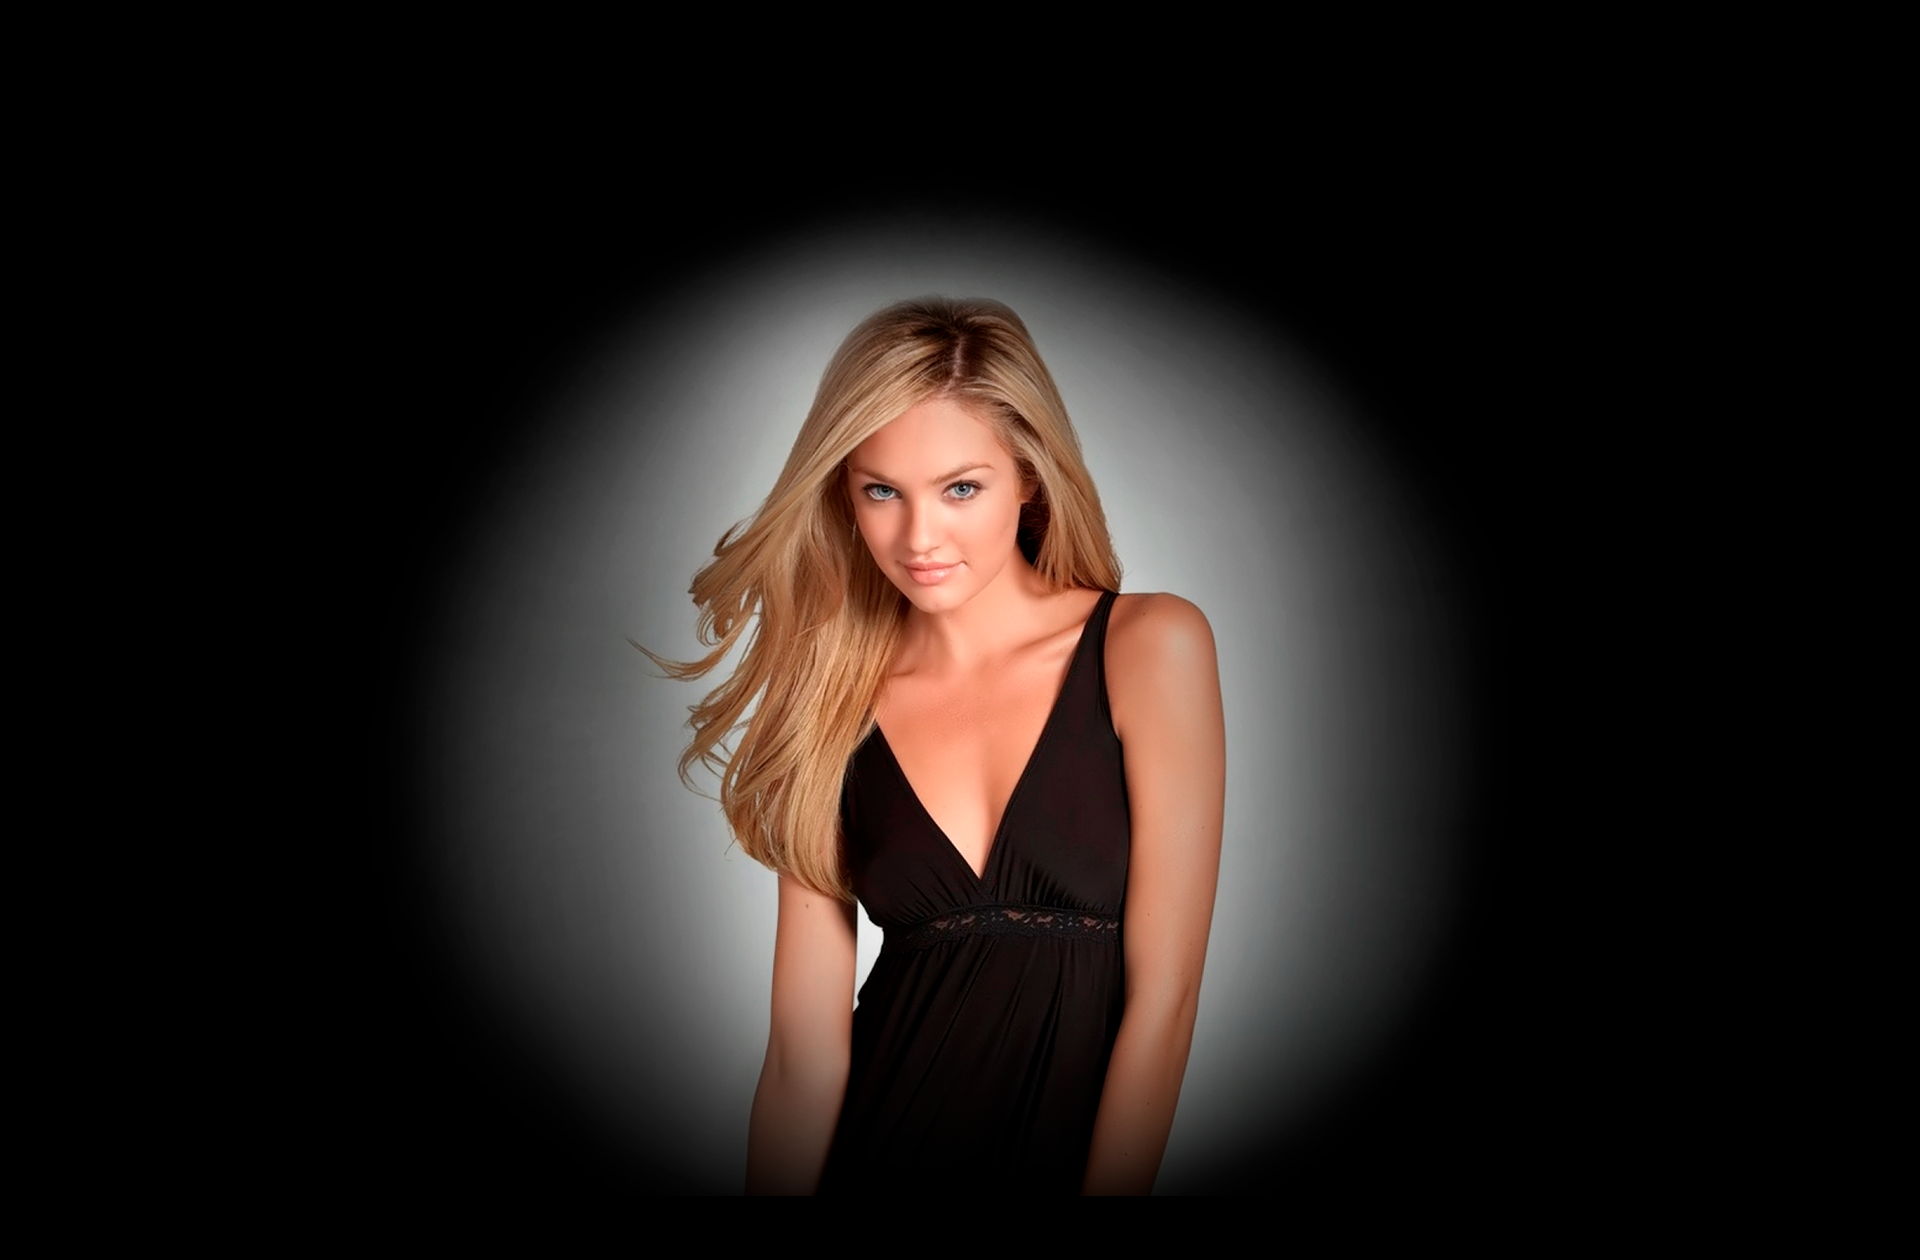
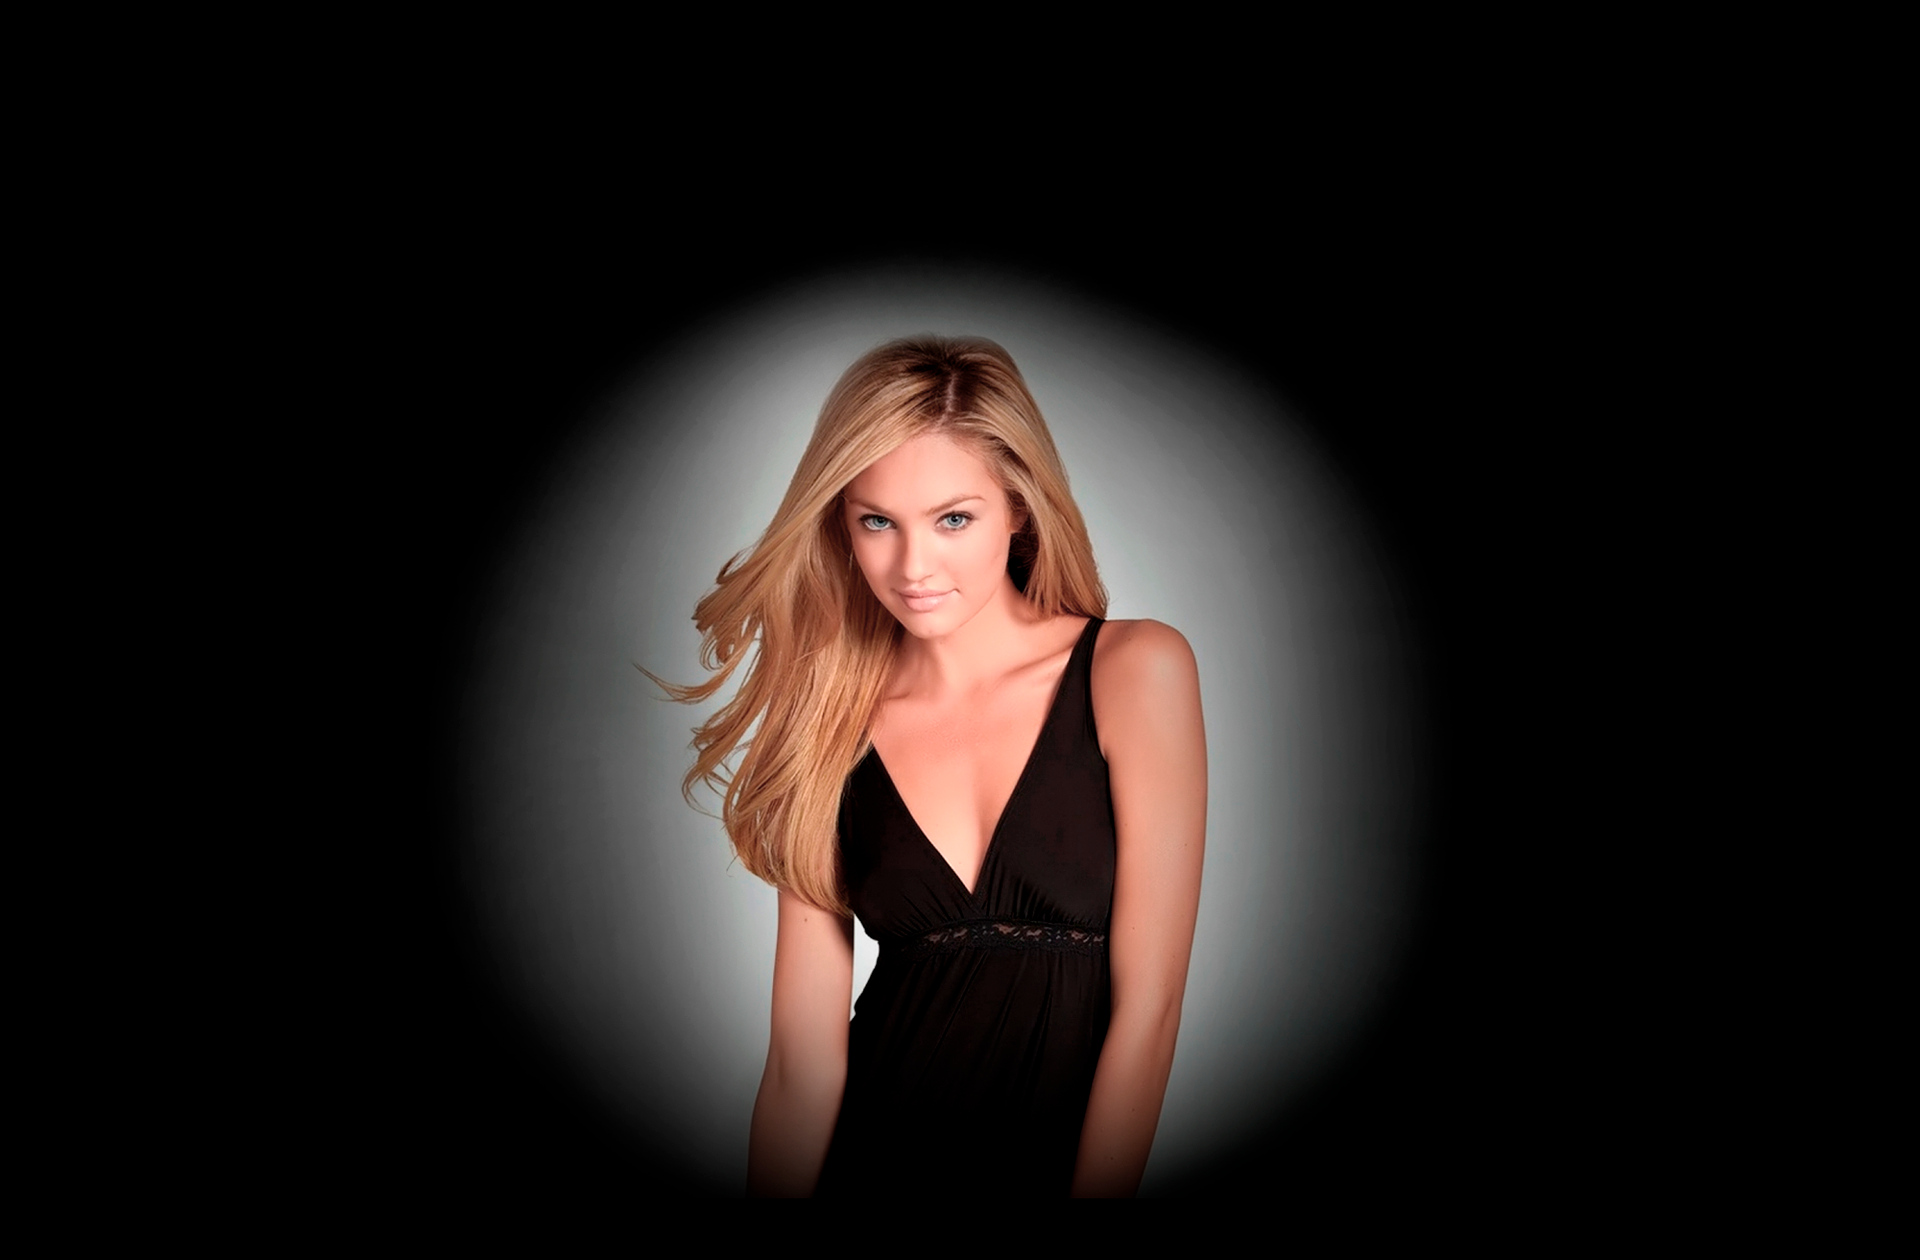
fixed mobile responsiveness

Changed region(s): [[0.2812, 0.1548, 0.75, 0.9286]]

diff --git a/public/assets/css/girl.css b/public/assets/css/girl.css
@@ -5,11 +5,19 @@ body{
 .topBar{
 	margin-top: 22px;
 }
+
+.close{
+	color: white;
+	opacity: initial;
+}
 .descriptionDiv{
 	padding-top: 40px;
     padding-right: 35px;
     padding-bottom: 20px;
     padding-left: 40px;
+}
+h3{
+	color: white;
 }
 
 .bottom{
@@ -160,8 +168,8 @@ h4{
 	line-height: 7px;
 }
 input {
-	max-width: 70%;
-	margin-left: 50px;
+	max-width: 44%;
+	margin-left: 28%;
 }
 .container {
 	
@@ -193,6 +201,8 @@ input {
 		font-size: 32px;
 		margin-left: 0;
 	}
+	p{
+		padding-right: 20px;
 }
 
 @media screen and (max-width: 640px){
@@ -243,6 +253,10 @@ input {
 	.bottom{
 	position: absolute;
  	bottom: 0px;
+	}
+
+	p{
+		padding-right: 10px;
 	}
 	
 

diff --git a/public/assets/css/naturalBeauty.css b/public/assets/css/naturalBeauty.css
@@ -1,5 +1,5 @@
 html {
-    height: 104%;
+    height: 100%;
     background: url('naturalBeautyBackground.png') no-repeat center center;
     background-size: cover;
     background-color: black;
